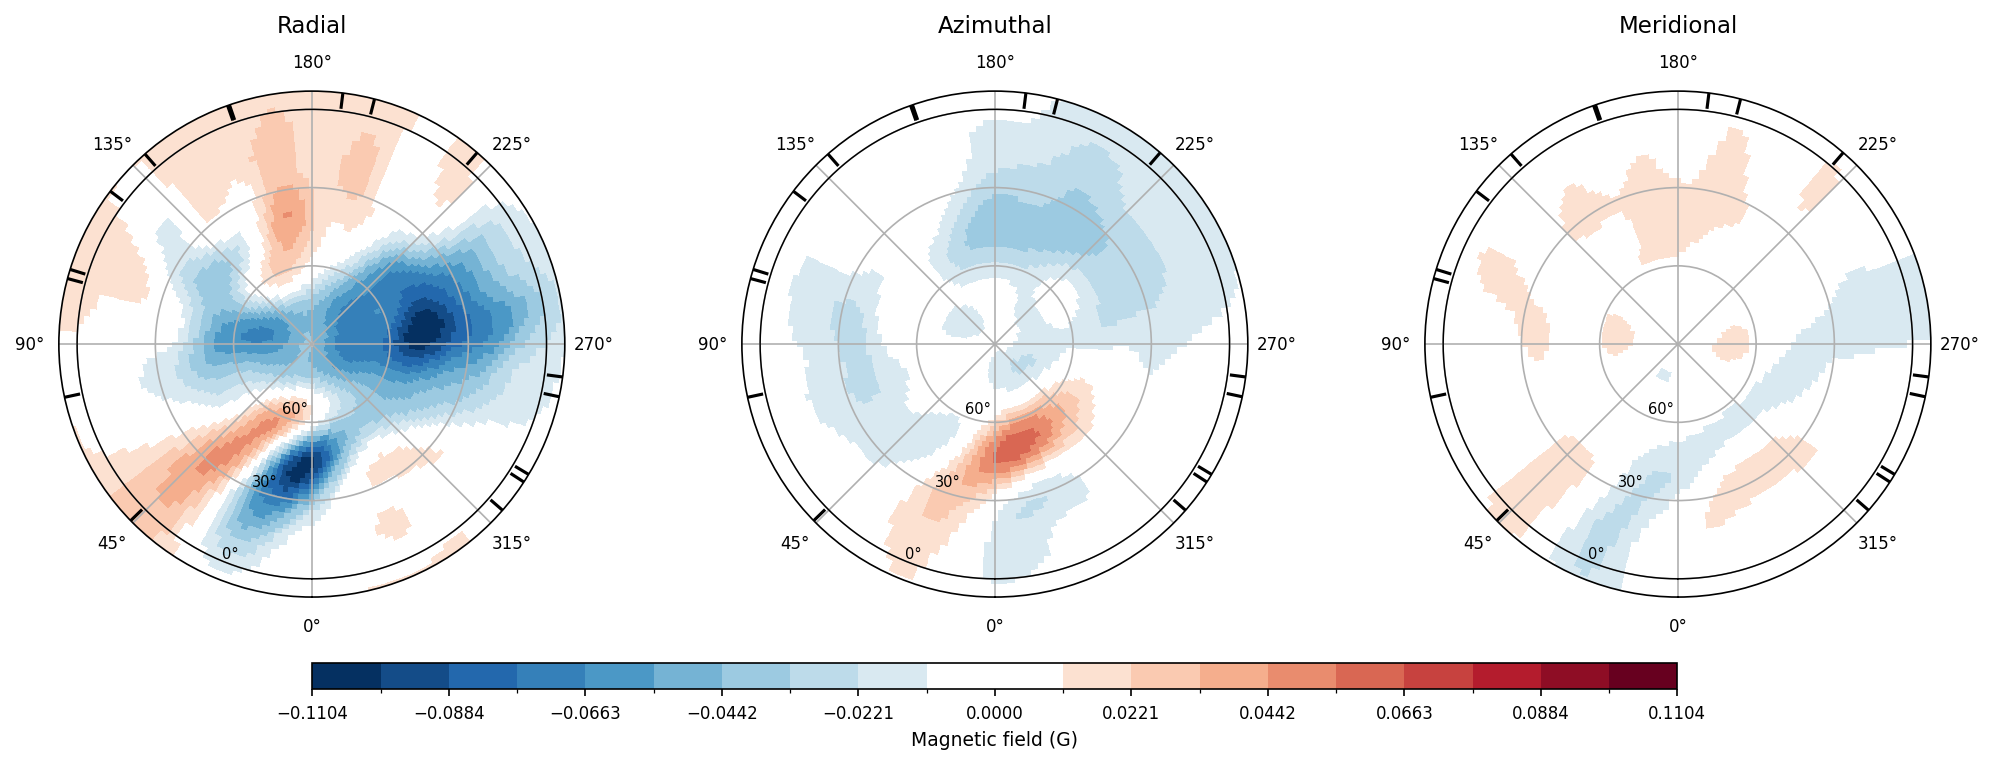
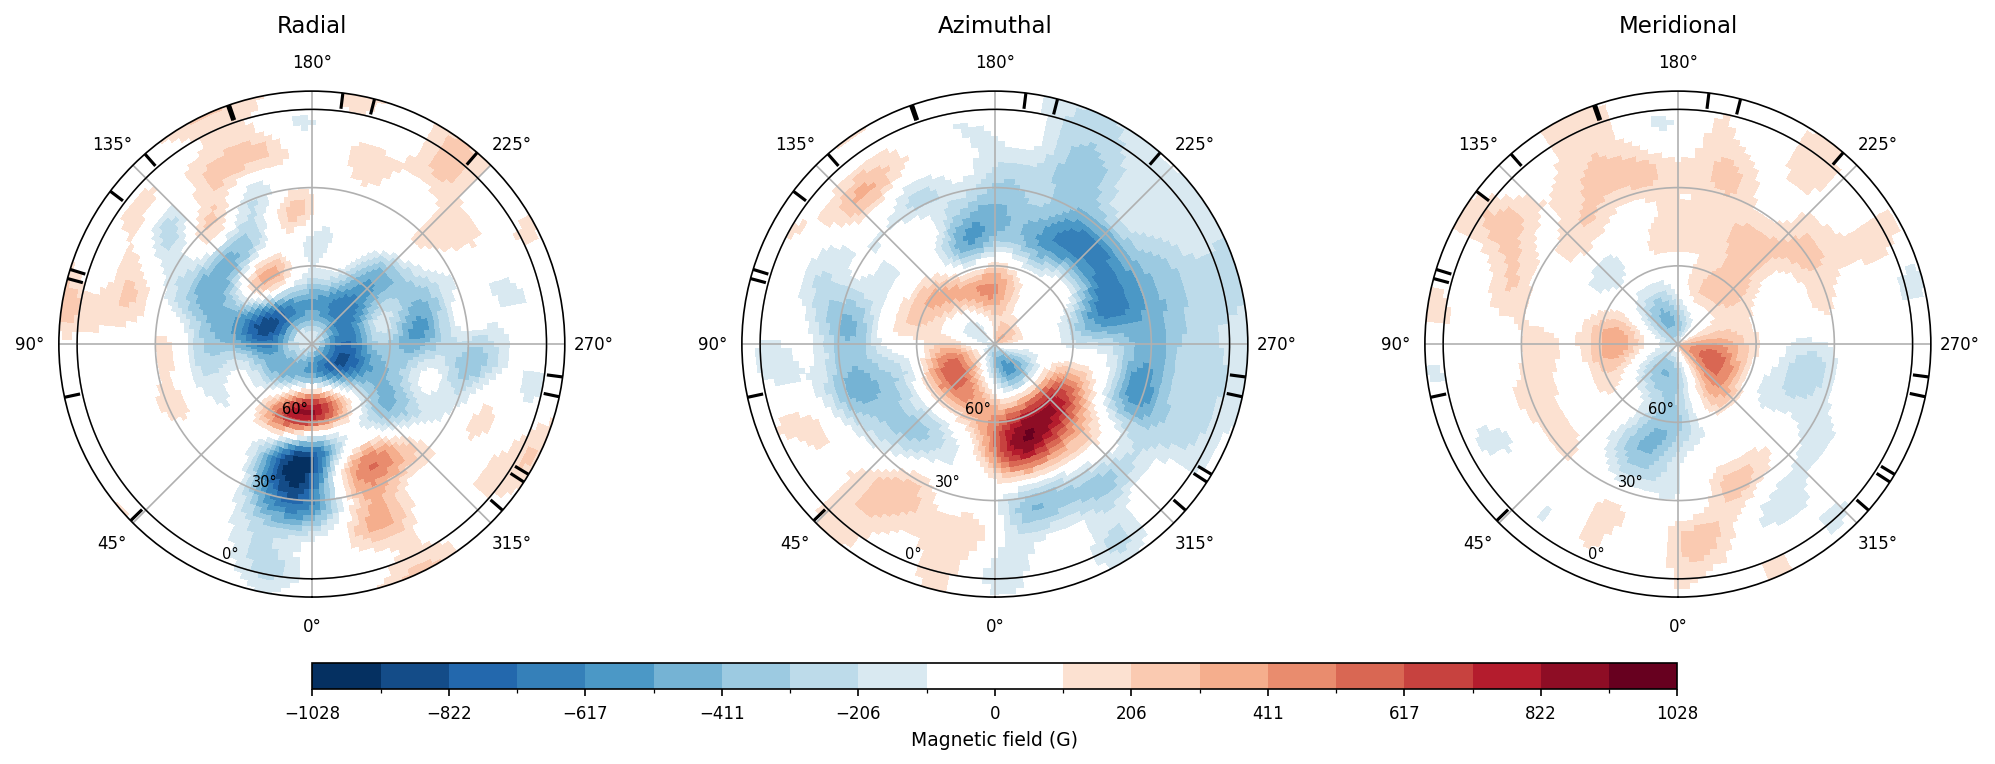
bug fix

diff --git a/frontend/js/config.js b/frontend/js/config.js
@@ -51,6 +51,7 @@ const CONFIG_SCHEMA = [
     fields: [
       { key: 'fit_brightness', label: 'Fit brightness map',              type: 'checkbox', tooltip: 'Enable inversion of the surface brightness map from Stokes I profiles.' },
       { key: 'chi2_scale_I',   label: 'χ² scale for Stokes I',          type: 'number', step: 0.01,  tooltip: 'Weighting factor applied to the Stokes I χ² contribution during inversion.' },
+      { key: 'chi2_scale_V',   label: 'χ² scale for Stokes V',          type: 'number', step: 0.01,  tooltip: 'Weighting factor applied to the Stokes V χ² contribution during joint inversion. Increase this when brightness fitting overwhelms the magnetic update.' },
       { key: 'entropy_scale',  label: 'Entropy scale',                   type: 'number', step: 0.01,  tooltip: 'Weighting factor for the entropy regularisation term in the brightness inversion.' },
       { key: 'entropy_form',   label: 'Entropy form  (1=image, 2=fill)', type: 'select', options: [1, 2], tooltip: 'Entropy functional form: 1 = image entropy (favours uniform map), 2 = fill entropy (favours uniform deviation from default).' },
       { key: 'default_bright', label: 'Default brightness',              type: 'number', step: 0.01,  tooltip: 'Reference (default) brightness for the entropy regularisation. Pixels are regularised toward this value.' },

diff --git a/frontend/index.html b/frontend/index.html
@@ -223,7 +223,7 @@
 
   <!-- Application JS (order matters) -->
   <script src="/js/app.js?v=3"></script>
-  <script src="/js/config.js?v=4"></script>
+  <script src="/js/config.js?v=5"></script>
   <script src="/js/observations.js"></script>
   <script src="/js/run.js"></script>
   <script src="/js/results.js?v=2"></script>

diff --git a/core/fitting.py b/core/fitting.py
@@ -17,6 +17,42 @@ import numpy as np
 
 _C_KMS = 2.99792458e5  # speed of light in km/s
 
+
+def _chi2_components(par, nDataTot: int, fmodel: np.ndarray, data: np.ndarray,
+                     sig2: np.ndarray) -> tuple[float, float, float]:
+    """Return weighted chi^2 contributions for Stokes I, Stokes V, and extra terms."""
+    n_use = min(fmodel.shape[0], data.shape[0], sig2.shape[0])
+    if n_use <= 0:
+        return 0.0, 0.0, 0.0
+
+    chi2_i = 0.0
+    chi2_v = 0.0
+    idx = 0
+
+    if par.fitBri == 1:
+        end_i = min(idx + nDataTot, n_use)
+        if end_i > idx:
+            chi2_i = float(
+                np.sum((fmodel[idx:end_i] - data[idx:end_i])**2 /
+                       sig2[idx:end_i]))
+        idx = end_i
+
+    if par.fitMag == 1:
+        end_v = min(idx + nDataTot, n_use)
+        if end_v > idx:
+            chi2_v = float(
+                np.sum((fmodel[idx:end_v] - data[idx:end_v])**2 /
+                       sig2[idx:end_v]))
+        idx = end_v
+
+    chi2_extra = 0.0
+    if n_use > idx:
+        chi2_extra = float(
+            np.sum((fmodel[idx:n_use] - data[idx:n_use])**2 / sig2[idx:n_use]))
+
+    return chi2_i, chi2_v, chi2_extra
+
+
 # ---------------------------------------------------------------------------
 # 主拟合循环
 # ---------------------------------------------------------------------------
@@ -94,20 +130,28 @@ def mainFittingLoop(par,
     target_aim = par.ent_aim if par.fixedEntropy == 1 else chi_aim
 
     # UR 模型在 B=0 处 dV/dCoeff=0，响应矩阵退化，MEM 无法建立搜索方向。
-    # 若磁场系数全为零且使用 UR 模型，将 Image 各元素初始化为 defIpm(=defaultBent)
-    # 量级，确保磁场熵梯度 gradS 显著非零（Hobson-Lasenby 熵在 f∼defIpm 时梯度最大）。
+    # 若磁场系数全为零且使用 UR 模型，用随机小扰动初始化：
+    #   - 量级取 defaultBent * 1e-2（足以使响应矩阵非零，同时远小于 defaultBent，
+    #     避免 Hobson-Lasenby 熵梯度在大振幅处趋近于 ±1 形成局部极小值）；
+    #   - 随机复相位打破所有系数同相位的对称性，避免 B∥LOS 辐条形奇异初始场。
     if (par.fitMag == 1 and getattr(par, 'line_model_type', 'voigt') == 'unno'
             and np.all(magGeom.alpha == 0) and np.all(magGeom.beta == 0)
             and np.all(magGeom.gamma == 0)):
-        _binit = par.defaultBent  # 与 defIpm 同量级，保证 gradS ≠ 0
-        magGeom.alpha[:] = _binit * (1.0 + 1.0j)
-        magGeom.beta[:] = _binit * (1.0 + 1.0j)
-        magGeom.gamma[:] = _binit * (1.0 + 1.0j)
+        rng = np.random.default_rng(seed=42)
+        _binit = par.defaultBent * 1e-2
+        n = magGeom.nTot
+        magGeom.alpha[:] = _binit * (rng.standard_normal(n) +
+                                     1j * rng.standard_normal(n))
+        magGeom.beta[:] = _binit * (rng.standard_normal(n) +
+                                    1j * rng.standard_normal(n))
+        magGeom.gamma[:] = _binit * (rng.standard_normal(n) +
+                                     1j * rng.standard_normal(n))
 
     with open('outFitSummary.txt', 'w') as fOutFitSummary:
 
         # 初始化收敛参数
         Chi2 = chi2nu = 0.0
+        chi2I = chi2V = chi2Extra = 0.0
         entropy = 0.0
         test = 1.0
         meanBright = meanBrightDiff = meanMag = 0.0
@@ -165,12 +209,15 @@ def mainFittingLoop(par,
                     weightEntropy, par.defaultBright, par.defaultBent,
                     par.maximumBright, target_aim, par.fixedEntropy)
 
+            chi2I, chi2V, chi2Extra = _chi2_components(par, nDataTot,
+                                                       allModelIV, Data, sig2)
+
             # 统计量
             meanBright = (np.sum(briMap.bright * sGrid.area) /
                           np.sum(sGrid.area))
-            meanBrightDiff = (np.sum(
-                np.abs(briMap.bright - par.defaultBright) * sGrid.area) /
-                              np.sum(sGrid.area))
+            meanBrightDiff = np.sum(
+                np.abs(briMap.bright - par.defaultBright) *
+                sGrid.area) / np.sum(sGrid.area)
             absMagCart = np.sqrt(vecMagCart[0, :]**2 + vecMagCart[1, :]**2 +
                                  vecMagCart[2, :]**2)
             meanMag = np.sum(absMagCart * sGrid.area) / np.sum(sGrid.area)
@@ -184,11 +231,20 @@ def mainFittingLoop(par,
 
             chi2nu = Chi2 / max(float(coMem.nDataTotIV), 1.0)
 
-            _summary = ('it {:3n}  entropy {:13.5f}  chi2 {:10.6f}  '
+            _chi2_parts = []
+            if par.fitBri == 1:
+                _chi2_parts.append(f'chi2I {chi2I:10.4f}')
+            if par.fitMag == 1:
+                _chi2_parts.append(f'chi2V {chi2V:10.4f}')
+            if chi2Extra > 0.0:
+                _chi2_parts.append(f'chi2X {chi2Extra:10.4f}')
+            _chi2_txt = ('  ' + '  '.join(_chi2_parts)) if _chi2_parts else ''
+
+            _summary = ('it {:3n}  entropy {:13.5f}  chi2 {:10.6f}{}  '
                         'Test {:10.6f} meanBright {:10.7f} '
                         'meanSpot {:10.7f} meanMag {:10.4f}'.format(
-                            iIter, entropy, chi2nu, test, meanBright,
-                            meanBrightDiff, meanMag))
+                            iIter, entropy, chi2nu, _chi2_txt, test,
+                            meanBright, meanBrightDiff, meanMag))
             if verbose == 1:
                 print(_summary)
             if callback is not None:
@@ -205,6 +261,8 @@ def mainFittingLoop(par,
         if iIter == 0:
             allModelIV = memSimple.packModelVector(setSynSpec, par.fitBri,
                                                    par.fitMag)
+            chi2I, chi2V, chi2Extra = _chi2_components(par, nDataTot,
+                                                       allModelIV, Data, sig2)
             chi2nu = (np.sum((allModelIV - Data)**2 / sig2) /
                       max(float(coMem.nDataTotIV), 1.0))
             Image = memSimple.packImageVector(briMap, magGeom, par.magGeomType,
@@ -218,9 +276,9 @@ def mainFittingLoop(par,
 
             meanBright = (np.sum(briMap.bright * sGrid.area) /
                           np.sum(sGrid.area))
-            meanBrightDiff = (np.sum(
-                np.abs(briMap.bright - par.defaultBright) * sGrid.area) /
-                              np.sum(sGrid.area))
+            meanBrightDiff = np.sum(
+                np.abs(briMap.bright - par.defaultBright) *
+                sGrid.area) / np.sum(sGrid.area)
             vecMagCart = magGeom.getAllMagVectorsCart()
             absMagCart = np.sqrt(vecMagCart[0, :]**2 + vecMagCart[1, :]**2 +
                                  vecMagCart[2, :]**2)
@@ -229,11 +287,20 @@ def mainFittingLoop(par,
         # 末尾打印（非逐迭代模式或零迭代）
         if (verbose != 1 and par.numIterations > 0) or (verbose == 1
                                                         and iIter == 0):
-            _summary = ('it {:3n}  entropy {:13.5f}  chi2 {:10.6f}  '
+            _chi2_parts = []
+            if par.fitBri == 1:
+                _chi2_parts.append(f'chi2I {chi2I:10.4f}')
+            if par.fitMag == 1:
+                _chi2_parts.append(f'chi2V {chi2V:10.4f}')
+            if chi2Extra > 0.0:
+                _chi2_parts.append(f'chi2X {chi2Extra:10.4f}')
+            _chi2_txt = ('  ' + '  '.join(_chi2_parts)) if _chi2_parts else ''
+
+            _summary = ('it {:3n}  entropy {:13.5f}  chi2 {:10.6f}{}  '
                         'Test {:10.6f} meanBright {:10.7f} '
                         'meanSpot {:10.7f} meanMag {:10.4f}'.format(
-                            iIter, entropy, chi2nu, test, meanBright,
-                            meanBrightDiff, meanMag))
+                            iIter, entropy, chi2nu, _chi2_txt, test,
+                            meanBright, meanBrightDiff, meanMag))
             print(_summary)
             if callback is not None:
                 callback(_summary)

diff --git a/core/mem/zdi_adapter.py b/core/mem/zdi_adapter.py
@@ -461,7 +461,11 @@ class constantsMEM:
                 self.npMagGeom = magGeom.nTot * 2
             else:
                 self.npMagGeom = magGeom.nTot * 6
-            self.nDataTotIV += nDataTot
+            # chi2_scale_V upweights V residuals; nDataTotIV is scaled accordingly
+            # so that chi_aim = chiTarget * nDataTotIV corresponds to per-dof
+            # chi2 == chiTarget for *both* I and V at convergence.
+            chi_scale_v = float(getattr(par, 'chiScaleV', 1.0))
+            self.nDataTotIV += nDataTot * chi_scale_v
         self.n1Model = self.npBriMap
         self.n2Model = self.n1Model
         if (par.fEntropyBright == 2):
@@ -479,9 +483,9 @@ def setEntropyWeights(par, magGeom, sGrid):
     # weightEntropyV = np.ones(magGeom.nTot*6)  #alternately use no weighting (everything = 1)
     if magGeom.magGeomType == 'poloidal':
         weightEntropyV = np.tile(magGeom.l, 4)
-    if magGeom.magGeomType == 'pottor':
+    elif magGeom.magGeomType == 'pottor':
         weightEntropyV = np.tile(magGeom.l, 4)
-    if magGeom.magGeomType == 'potential':
+    elif magGeom.magGeomType == 'potential':
         weightEntropyV = np.tile(magGeom.l, 2)
     else:
         weightEntropyV = np.tile(magGeom.l, 6)

diff --git a/config_loader.py b/config_loader.py
@@ -20,6 +20,7 @@ class ZDIConfig:
     Provides the same interface consumed by the ZDIpy pipeline so that
     both the WebUI and the CLI can share the same configuration.
     """
+
     def __init__(self, config_path: str):
         self.config_path = str(config_path)
         self._base = Path(config_path).parent.resolve()
@@ -105,6 +106,7 @@ class ZDIConfig:
         # --- Brightness ----------------------------------------------------
         self.fitBri = int(bri["fit_brightness"])
         self.chiScaleI = float(bri["chi2_scale_I"])
+        self.chiScaleV = float(bri.get("chi2_scale_V", 1.0))
         self.brightEntScale = float(bri["entropy_scale"])
         self.fEntropyBright = int(bri["entropy_form"])
         self.defaultBright = float(bri["default_bright"])
@@ -355,6 +357,7 @@ class ZDIConfig:
             "brightness": {
                 "fit_brightness": 0,
                 "chi2_scale_I": 1.0,
+                "chi2_scale_V": 1.0,
                 "entropy_scale": 1.0,
                 "entropy_form": 1,
                 "default_bright": 1.0,

diff --git a/core/readObs.py b/core/readObs.py
@@ -4,6 +4,7 @@ c = 2.99792458e5
 
 
 class obsProf:
+
     def __init__(self, obsFileName):
         # Read an observed (LSD) profile from obsFileName, and return it as an obsProf object.
         # If no file name is given, create an empty obsProf object
@@ -39,6 +40,13 @@ class obsProf:
         # Re-scale the Stokes I error bars, to incorporate the chi^2 scaling for I
         # (in an indirect fashion).
         self.specIsig /= np.sqrt(chiScaleI)
+
+    def scaleVsig(self, chiScaleV):
+        # Re-scale the Stokes V error bars, to incorporate the chi^2 scaling for V.
+        # chiScaleV > 1 upweights V in the joint chi^2, giving the magnetic-field
+        # update more influence relative to brightness.  Use ~1000 when starting
+        # joint inversion from B=0 to balance the gradient magnitudes.
+        self.specVsig /= np.sqrt(chiScaleV)
 
 
 def obsProfSet(obsFileNameList):

diff --git a/pipeline/pipeline.py b/pipeline/pipeline.py
@@ -34,6 +34,7 @@ class ZDIPipeline:
         When set, the pipeline will stop gracefully at the next iteration
         boundary and return early with ``cancelled=True``.
     """
+
     def __init__(
         self,
         par,
@@ -126,6 +127,7 @@ class ZDIPipeline:
         # Scale Stokes I error bars
         for obs in obsSet:
             obs.scaleIsig(par.chiScaleI)
+            obs.scaleVsig(getattr(par, 'chiScaleV', 1.0))
 
         # --- Initialize stellar grid --------------------------------------
         sGrid = geometryStellar.starGrid(par.nRingsStellarGrid, par.period,
